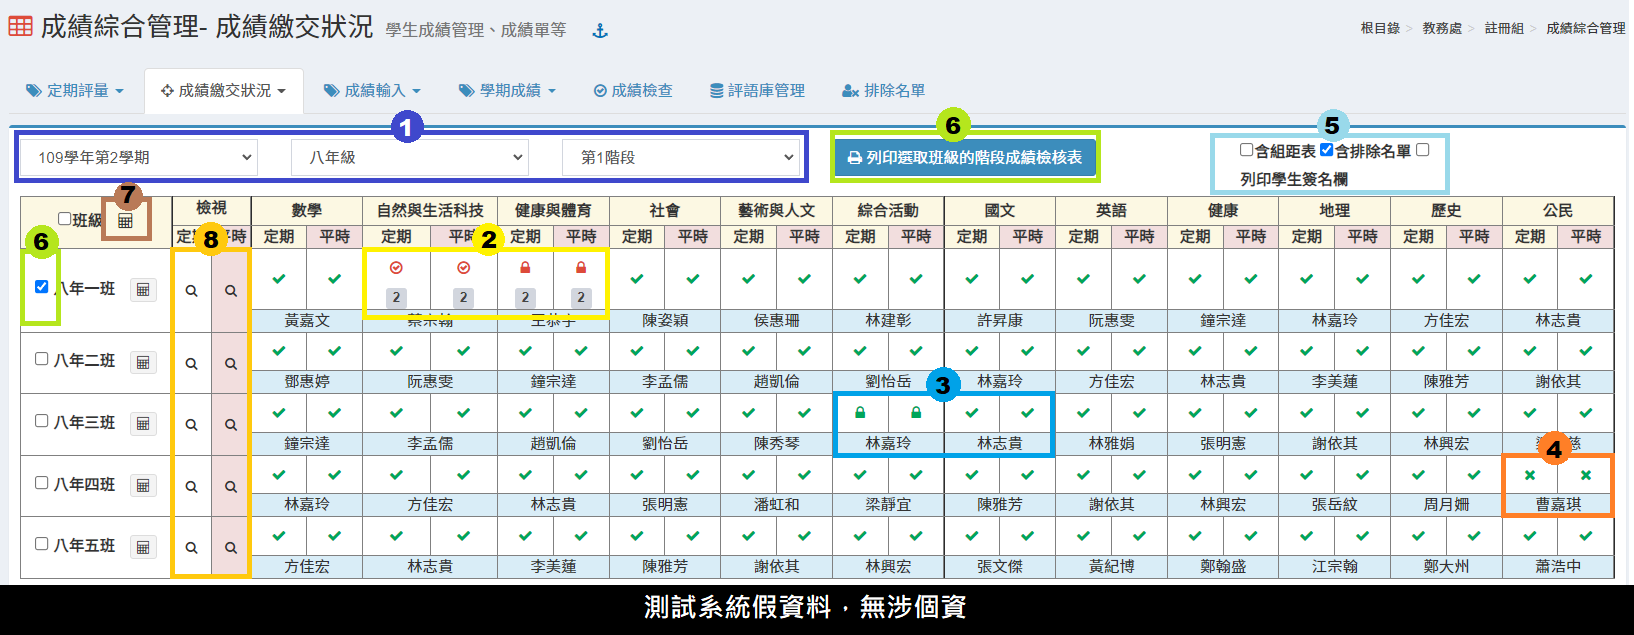
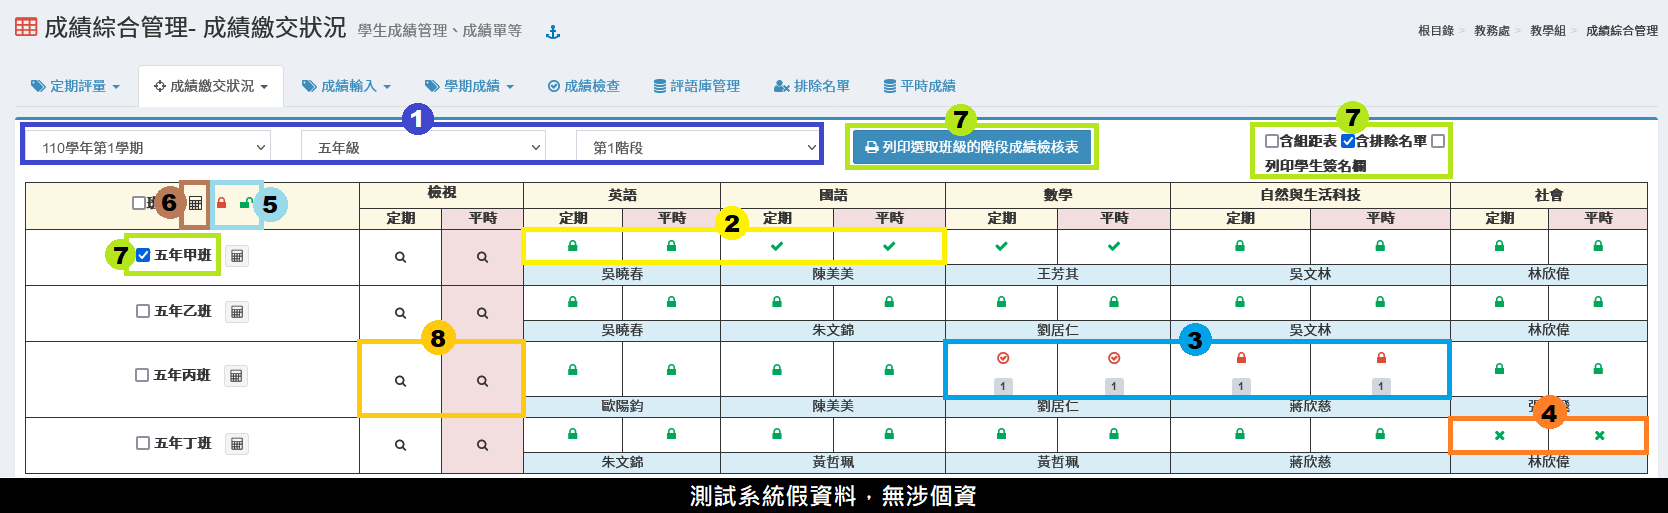
GitBook: [#373] [新增]成績綜合管理_成績繳交狀況一鍵上鎖解鎖功能_220413

diff --git a/undefined/xiao-she-guan-li.md b/undefined/xiao-she-guan-li.md
@@ -49,20 +49,20 @@
 ![](<../.gitbook/assets/club\_management (1).png>)
 
 1.  期初設定\
-    &#x20;![](../.gitbook/assets/manager2.png)&#x20;
+    &#x20;<img src="../.gitbook/assets/manager2.png" alt="" data-size="original">&#x20;
 
     ● 請逐項依照貴校需求填入資料。
 
     ● 儲存。\
 
 2. 新增社團\
-   ![](../.gitbook/assets/club-manager3.png) \
+   <img src="../.gitbook/assets/club-manager3.png" alt="" data-size="original"> \
    將社團指導老師的社團資料逐筆輸入。請注意年級別要正確。\
 
 3. 刪除不需要的社團，請點該社團之「**刪除**」按鈕，但若該社團已有編入學生，請先刪除編入學生資料才可刪除。若要修改該社團設定，請按「**修改**」按鈕。\
 
 4.  複製上學期社團 \
-    ![](../.gitbook/assets/copy\_last-semester\_club.png) \
+    <img src="../.gitbook/assets/copy_last-semester_club.png" alt="" data-size="original"> \
     ● 複製本學期之前的社團，省去逐筆設定社團，也可一併複製該社團學生。
 
     ● 請先選擇要複製的社團，如果出現的是已存在，為該社團在本學期已重複。
@@ -70,7 +70,7 @@
     ● 要一併複製社團學生，請先勾選該社團，只勾選複製學生，系統不會處理。\
 
 5.  統一設定通過分數\
-    &#x20;![](../.gitbook/assets/unity\_setting\_pass-score.png)&#x20;
+    &#x20;<img src="../.gitbook/assets/unity_setting_pass-score.png" alt="" data-size="original">&#x20;
 
     ● 本功能是將有社團同時輸入統一分數，您仍可針對個別社團進行分數調整。
 
@@ -79,7 +79,7 @@
     ● 若貴校不需認證，則請輸入 0 分。\
 
 6. 手動編班\
-   &#x20;![](../.gitbook/assets/manual\_edit\_class.png) \
+   &#x20;<img src="../.gitbook/assets/manual_edit_class.png" alt="" data-size="original"> \
    1.選擇班級。\
    2.選擇學生，若要選擇班級所有學生，請勾選「**全選**」。\
    3.可以顯示已編班的學生狀況，若要刪除學生，請點擊「**刪除**」圖示；刪除全部學生，請點擊「**全部刪除**」。
@@ -94,7 +94,7 @@
 2. 可檢視各年級社團內容。
 3. 可檢視各年級社團學生明細。
 4. 若需檢視尚未選課和編班的學生，請點擊「**未選課、編班名單**」。\
-   ![](../.gitbook/assets/unselected\_club\_list.png)&#x20;
+   <img src="../.gitbook/assets/unselected_club_list.png" alt="" data-size="original">&#x20;
 5. 學生填寫志願期限過後，就可以按**「開始編班」**按鈕，系統就開始依據社團設定及學生填之志願編班。
 6. 系統提供下載各年級學生選填社團志願的狀況。
 7. 若要刪除當學期社團編班記錄，請點擊「**清除鍵**」。如果要保留已經事先安排之學生編社資料，可取消勾選**"包含已手動編班學生"**，並於確認後清除資料。
@@ -152,7 +152,7 @@
    **「自我省思」**為學生於[學生作業＞社團活動](../sheng/sheng-zuo.md#she-tuan-huo-dong)自行輸入，此處提供學校修改不當留言使用。
 3. 輸入完畢請點選「**儲存**」。
 4. 若要一次輸入多筆資料，可以點擊「**快貼成績**」。\
-   &#x20;![](../.gitbook/assets/club-semester-data2.png) \
+   &#x20;<img src="../.gitbook/assets/club-semester-data2.png" alt="" data-size="original"> \
    依照「**快貼說明**」操作，即可完成作業。
 
 {% hint style="info" %}

diff --git a/undefined-1/sheng-guan-li.md b/undefined-1/sheng-guan-li.md
@@ -2,13 +2,13 @@
 
 ## 學生輔導記錄
 
-![](../.gitbook/assets/counseling1.png)
+<img src="../.gitbook/assets/counseling1.png" alt="" data-size="original">
 
 1. &#x20;學生輔導紀錄預設只能記錄當學期資料，如欲修改為可記錄其他學期，請點選 [參數設定](sheng-guan-li.md#can-shu-she-ding) ，並將 **「允許修改本學期之前的輔導資料」**設為 **「是」** 。
 2.  &#x20;要登錄資料，請按 **「登錄」** 按鈕，進入編修頁面如下圖。 \
     &#x20;
 
-    ![](<../.gitbook/assets/student\_counseling\_record (1).png>)
+    <img src="../.gitbook/assets/student_counseling_record (1).png" alt="" data-size="original">
 3. 請選擇學期。
 4. 再選擇學生後，請依該生狀況輸入或選擇適合條件選項。
 5. 輸入完成後，請按 **「儲存」** 按鈕儲存紀錄。
@@ -30,14 +30,14 @@
 3\. 如欲修改訪談紀錄，請按 **「修改」** 按鈕，並於跳出視窗內進行編修；如要刪除此紀錄，請按 **「刪除」** 按鈕，於確認刪除後會刪除該筆資料。\
 4.列印學生訪談紀錄。\
 5\. 欲新增訪談紀錄，請按 **「新增紀錄」** 按鈕，會跳出視窗如下圖。\
-![](../.gitbook/assets/student\_interview\_record3.png)&#x20;
+<img src="../.gitbook/assets/student_interview_record3.png" alt="" data-size="original">&#x20;
 
 * 請在表單內容輸入紀錄。
 * 輸入完成後，請按 **「儲存」** 按鈕。
 * 不要輸入或放棄編輯，請按 **「關閉」** 按鈕關閉該視窗。
 
 6.若某生有多筆資須輸入，可以使用快貼功能，如下圖。 \
-![](../.gitbook/assets/student\_interview\_record4.png)&#x20;
+<img src="../.gitbook/assets/student_interview_record4.png" alt="" data-size="original">&#x20;
 
 * 點選使用說明。
 * 下載範例檔。
@@ -98,10 +98,10 @@
 3.要列印班級學生之測驗紀錄，請點選 **「列印本學期測驗」** 按鈕。\
 4.要新增／編修心理測驗，請點選 **「編修心理測驗」** 按鈕，會跳出新視窗如下圖。
 
-> ![](../.gitbook/assets/psychological\_test3.png) \
+> <img src="../.gitbook/assets/psychological_test3.png" alt="" data-size="original"> \
 > &#x20;1.要新增測驗請點選 **「新增測驗」** 按鈕，會在原視窗下方出現表單，如下圖。
 
-> > ![](../.gitbook/assets/psychological\_test4.png) \
+> > <img src="../.gitbook/assets/psychological_test4.png" alt="" data-size="original"> \
 > > &#x20;於輸入相關資料後，按 **「儲存」** 按鈕即可新增一個心理測驗。
 
 > 2.如果要刪除測驗，請按 **「刪除」** 按鈕，於確認刪除後會刪除該筆資料；修改該筆資料，請按 **「修改」** 按鈕，並於下方的表單內修改該筆紀錄。\
@@ -109,7 +109,7 @@
 
 5\. 於測驗完畢後，要輸入學生成績紀錄，可以使用快貼方式快速輸入成績紀錄，請按 **「快貼批次匯入」** 按鈕，會跳出新視窗如下圖。
 
-> ![](../.gitbook/assets/psychological\_test5.png)&#x20;
+> <img src="../.gitbook/assets/psychological_test5.png" alt="" data-size="original">&#x20;
 >
 > 1. 請選擇測驗項目，若尚未新增測驗，請至 **「編修心理測驗」** 功能新增測驗。
 > 2. 將測驗資料填入區塊 2。

diff --git a/undefined/sheng-guan-li.md b/undefined/sheng-guan-li.md
@@ -10,7 +10,7 @@
 
 2.下方會有週次選項，點選週次其下方會顯示該週登錄之紀錄。\
 3.顯示該週所登錄之記錄有哪幾種獎懲，裡面之數字代表有幾筆紀錄，點選該種獎懲可篩選顯示該種獎懲之紀錄。\
-4.如果要刪除某筆學生紀錄可在「**顯示所有學生**」按下按鈕，在確認按鈕後會出現以下畫面後按下「**刪除**」按鈕即可刪除學生紀錄。 ![](../.gitbook/assets/reward-and-punishment\_record3.png) \
+4.如果要刪除某筆學生紀錄可在「**顯示所有學生**」按下按鈕，在確認按鈕後會出現以下畫面後按下「**刪除**」按鈕即可刪除學生紀錄。 <img src="../.gitbook/assets/reward-and-punishment_record3.png" alt="" data-size="original"> \
 5.功能選項:
 
 * 要增加某筆紀錄之學生，可按「**加入學生**」 按鈕，在跳出視窗內選擇班級、選擇學生後就可增加同筆紀錄之學生。
@@ -30,7 +30,7 @@
 2. 點選某學生後，在右方區塊會出現該學生所有懲戒紀錄。
 3. 要銷該學生某筆記過紀錄，可修改銷過日期或保持當天時間不修改後按 「**確定銷過**」 按鈕即可銷過。銷過後會出現「**取消**」 按鈕及「**列印通知單**」按鈕。
 4. 若學生有較多紀錄需要銷過，請「**勾選**」記錄並點擊「**批次處理**」即可。
-5. 點擊「**今日銷過學生**」可以瀏覽當日銷過記錄，如下圖。 ![](../.gitbook/assets/cancel\_punish2.png)&#x20;
+5. 點擊「**今日銷過學生**」可以瀏覽當日銷過記錄，如下圖。 <img src="../.gitbook/assets/cancel_punish2.png" alt="" data-size="original">&#x20;
 6. 若要回復銷過記錄，請點擊「**取消**」即可完成。
 
 ## 個人獎懲明細
@@ -67,7 +67,7 @@
 ![](../.gitbook/assets/punishment\_list.png)
 
 1. 懲戒列表會列出有記有記過紀錄之記過統計，勾選「**含已銷過紀錄**」則會包含已銷過紀錄統計。
-2. 點選學生姓名會跳出新視窗顯示該學生所有獎懲明細資料，如下圖。 ![](../.gitbook/assets/punishment\_list2.png)&#x20;
+2. 點選學生姓名會跳出新視窗顯示該學生所有獎懲明細資料，如下圖。 <img src="../.gitbook/assets/punishment_list2.png" alt="" data-size="original">&#x20;
 3. 可以下載獎懲列表記錄Excel檔。
 
 ## 獎懲統計

diff --git a/jiao/cheng-he-guan-li.md b/jiao/cheng-he-guan-li.md
@@ -82,12 +82,12 @@
 ![](../.gitbook/assets/score-manage1.png)
 
 1. 選擇**「學期」**、**「年級」**、**「階段別」**。
-2. 若班級有部分學生成績未輸入，則會顯示未輸入人數，且圖示為紅色。**鎖頭圖示**表示成績已匯至教務處，任課老師無法修改，**按一下可解鎖**。
-3. 若任課老師已完成全班學生成績輸入，圖示會顯示為綠色。**鎖頭圖示**表示成績已匯至教務處，任課老師無法修改，**按一下可解鎖**。
+2. 若任課老師已完成全班學生成績輸入，圖示會顯示為綠色。**鎖頭圖示**表示成績已匯至教務處，任課老師無法修改，**按一下可解鎖**。
+3. 若班級有部分學生成績未輸入，則會顯示未輸入人數，且圖示為紅色。**鎖頭圖示**表示成績已匯至教務處，任課老師無法修改，**按一下可解鎖**。
 4. 若全班成績都沒有輸入，則顯示 ✘ **圖示**。
-5. 勾選列印項目**「含組距表」**、**「 含排除名單 」**、**「列印學生簽名欄** 」。
-6. 勾選班級可列印**班級階段成績檢核表**。
-7. 按下**「計算機」**圖示，可結算班級成績。
+5. 點擊此處**「鎖頭圖示」**可批次鎖定及開鎖。
+6. 按下**「計算機」**圖示，可結算班級學期成績。
+7. 勾選列印項目**「含組距表」**、**「 含排除名單 」**、**「列印學生簽名欄** 」後再勾選班級，可列印**班級階段成績檢核表**。
 8. 按下**「放大鏡」**圖示，可查看該班學生成績。
 
 ### 成績繳交狀況 - 分組班
@@ -196,7 +196,7 @@
 
 1. 選擇**「學期」**、**「年級」**。&#x20;
 2. 該年級學期成績不及格人數統計會顯示在標示處。&#x20;
-3. 點選領域不及格人數可以顯示該領域不及格名單，如下圖。![](../.gitbook/assets/seme-score-fail-count2.png)
+3. 點選領域不及格人數可以顯示該領域不及格名單，如下圖。<img src="../.gitbook/assets/seme-score-fail-count2.png" alt="" data-size="original">
 4. 可**「列印」**該次統計結果。
 
 ### 班級歷年科目學期成績總表

diff --git a/undefined-1/ting-ke-xue-sheng-guan-huai-ji-lu.md b/undefined-1/ting-ke-xue-sheng-guan-huai-ji-lu.md
@@ -26,7 +26,7 @@
 ![](../.gitbook/assets/ting-ke-xue-sheng-guan-huai-li-an-1.png)
 
 * 新增**個案資料** \
-  &#x20;![](../.gitbook/assets/ting-ke-xue-sheng-guan-huai-li-an-2.png) \
+  &#x20;<img src="../.gitbook/assets/ting-ke-xue-sheng-guan-huai-li-an-2.png" alt="" data-size="original"> \
   1.輸入**案名**\
   2.選擇**停課原因**\
   3.輸入**原因簡述**\
@@ -86,7 +86,7 @@
 ![](../.gitbook/assets/ting-ke-xue-sheng-guan-huai-ji-lu-tian-bao-1.png)
 
 1. **新增關懷紀錄**\
-   &#x20;![](../.gitbook/assets/suspend-class-care-plan.png) \
+   &#x20;<img src="../.gitbook/assets/suspend-class-care-plan.png" alt="" data-size="original"> \
    一.選擇實施起訖日期。\
    二.填寫實施的科目。\
    三.填寫實施的方式。                                                                                                   　　　　　四.如實施方式為其他，請填寫補充說明。　　　　　　　　　　　　　　　　　　　　　　　　　五.點選**「選擇檔案」**上傳課業輔導計畫檔案。\
@@ -98,14 +98,14 @@
 3.  **導師填寫學生關懷紀錄**\
     ****
 
-    &#x20;**** ![](../.gitbook/assets/ting-ke-xue-sheng-guan-huai-ji-lu-tian-bao-3.png)&#x20;
+    &#x20;**** <img src="../.gitbook/assets/ting-ke-xue-sheng-guan-huai-ji-lu-tian-bao-3.png" alt="" data-size="original">&#x20;
 
     > * 填寫`輔導措施`
     > * 填寫`聯繫狀況`
     > * 填寫`學生狀況`
 4. **刪除紀錄**
 5. **可將停課關懷紀錄複製至輔導訪談紀錄** \
-   ****![](../.gitbook/assets/ting-ke-xue-sheng-guan-huai-ji-lu-tian-bao-4.png) \
+   ****<img src="../.gitbook/assets/ting-ke-xue-sheng-guan-huai-ji-lu-tian-bao-4.png" alt="" data-size="original"> \
    ****
 
 ※填報教學影片

diff --git a/jiao-1/zuo.md b/jiao-1/zuo.md
@@ -36,7 +36,7 @@ description: 本模組為提供導師或級任教師班級管理作業功能。
 1. 請點選學生後，會出現學生兄弟姊妹之資料
 2.  要新增該學生之兄弟姊妹，請按 **「新增資料」** 按鈕，會出現跳出視窗如下圖。
 
-    ![](../.gitbook/assets/tutor4.png)\
+    <img src="../.gitbook/assets/tutor4.png" alt="" data-size="original">\
     &#x20;:pencil:`輸入該生要新增之兄弟姊妹資料後按 「確定」 按鈕級可儲存資料。`
 3. 要修改某筆資料，請按 **「修改」** 按鈕，於跳出之視窗內修改資料後，按 **「確定」** 按鈕即可儲存資料。
 4. 要刪除某筆資料，請按 **「刪除」** 按鈕，於確認刪除後刪除。
@@ -128,7 +128,7 @@ description: 本模組為提供導師或級任教師班級管理作業功能。
 1. 請選擇要記錄訪談之學生。
 2.  新增紀錄請按 **「新增紀錄」** 按鈕，會跳出新視窗如下圖。
 
-    ![](../.gitbook/assets/tutor8.png)\
+    <img src="../.gitbook/assets/tutor8.png" alt="" data-size="original">\
     &#x20;:pencil:  `請填入相關訪談資料後，按 「存檔」 按鈕儲存資料。`
 3. 如有多筆訪談紀錄，可點擊**「快貼紀錄」**跳出新視窗，如下圖，按照使用說明操作即可![](../.gitbook/assets/tutor-counseling-interview2.png)
 4. 要修改紀錄請按 **「修改」** 按鈕圖示，跳出新視窗後，請修改資料後，按儲存按鈕來儲存輸入之資料。要刪除紀錄請按 **「刪除」** 按鈕圖示，在確定後刪除。

diff --git a/undefined/que-guan-li.md b/undefined/que-guan-li.md
@@ -76,7 +76,7 @@
 
 1. 選擇班級。
 2. 點擊「**學生姓名**」可以檢視學生各個學期缺曠課次數統計，如下圖。\
-   &#x20;![](../.gitbook/assets/semester\_lack\_class\_statistics2.png) \
+   &#x20;<img src="../.gitbook/assets/semester_lack_class_statistics2.png" alt="" data-size="original"> \
    \*點擊「**關閉**」可以回到原來的頁面。
 3. 列印本學期缺曠課統計表。
 
